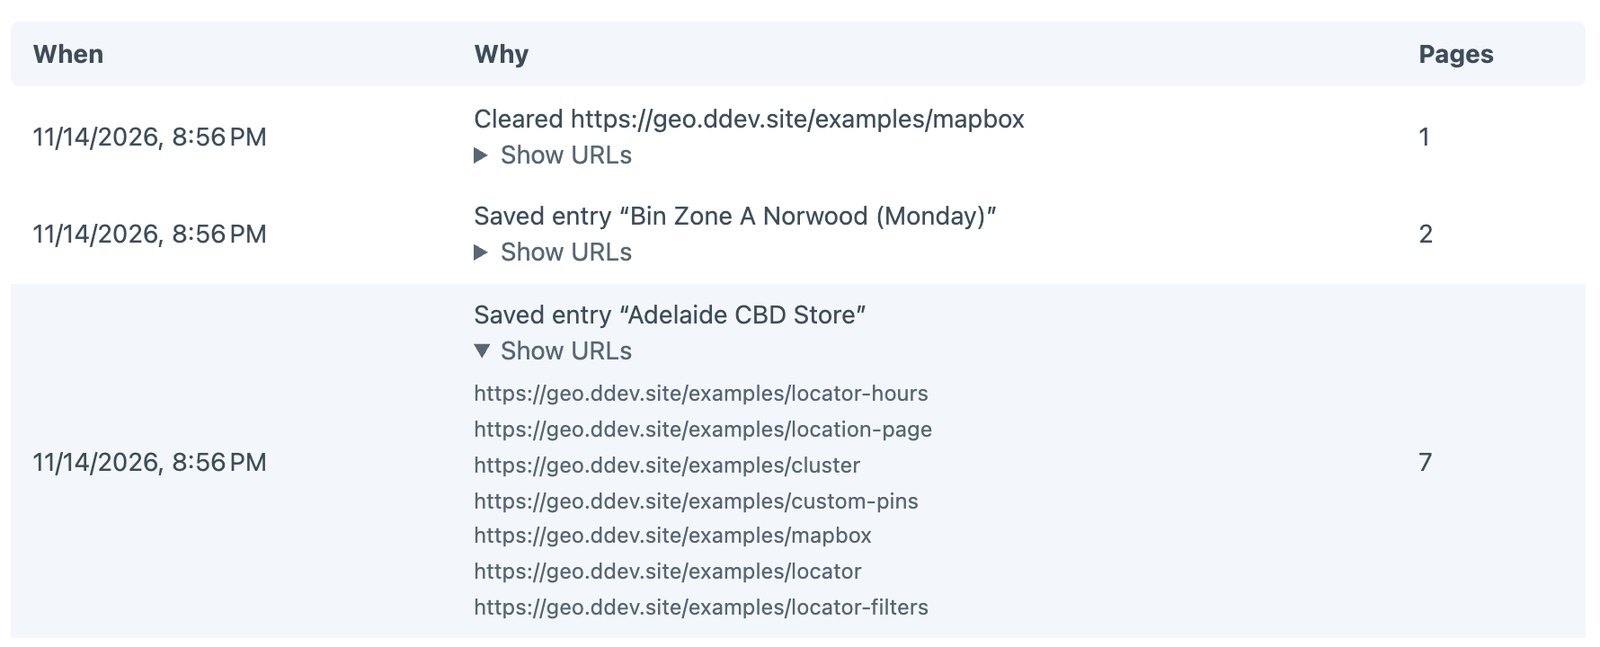
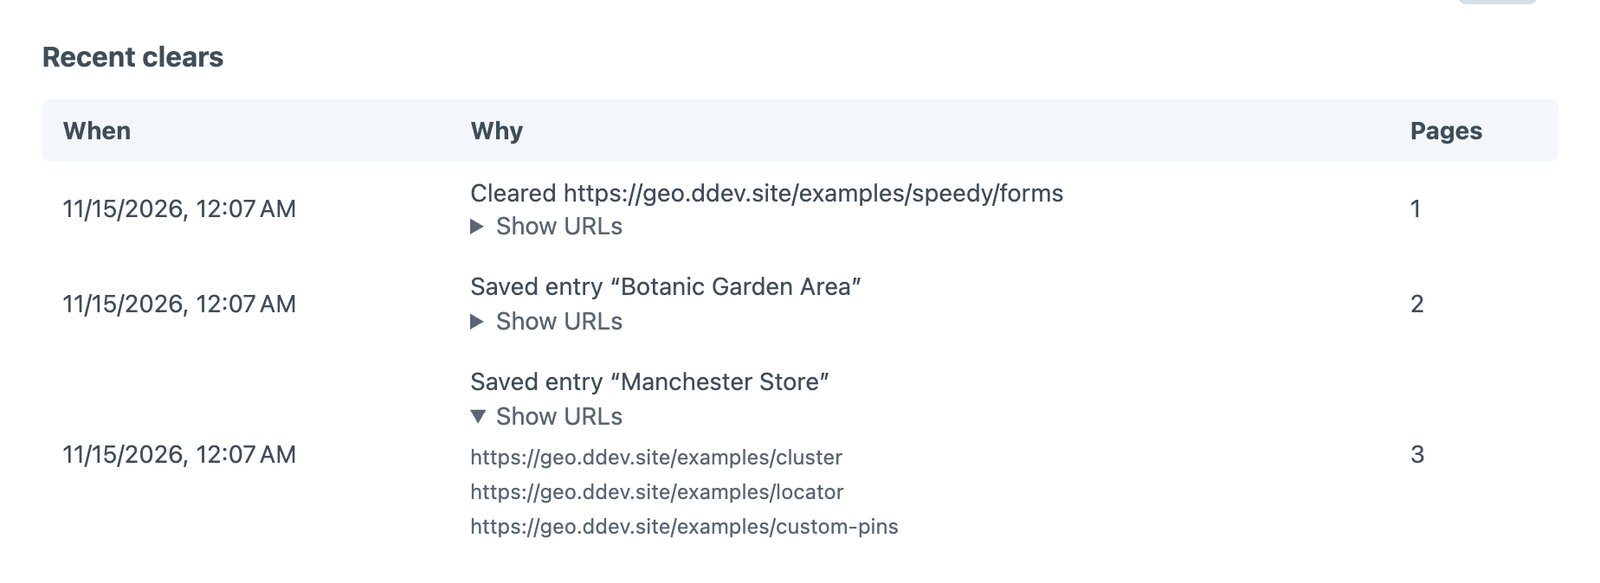
Docs: new screenshots for the utility, settings tabs, entry status, element action and support report

diff --git a/docs/src/guides/utility.md b/docs/src/guides/utility.md
@@ -40,13 +40,19 @@ Every cached page, sorted by URL, with a search box. For each page:
 
 ## On each entry
 
+![The details panel of an entry: Page cache, Cached, 26 seconds ago, shown on 3 cached pages](/images/entry-status.jpg)
+
 The details panel of entries, categories, products and other elements with pages shows a **Page cache** line: whether its page is cached and when, or why it isn’t (caching off, or a **Never cache** pattern), and how many cached pages show it.
 
 ## Clear from an element index
 
+![The actions menu of the entries index, with Clear cached pages](/images/element-action.jpg)
+
 Select entries, categories or Commerce products, and choose **Clear cached pages** from the actions menu. It clears every cached page that shows them. It needs the **Utilities → Speedy Cache** permission.
 
 ## Support report
+
+![The support report: versions, caching settings, CDN, checks, recent clears and plugins](/images/report.jpg)
 
 **Copy support report** copies a plain-text summary to paste into a support email: versions, settings, CDN status, checks, recent clears and installed plugins. Keys and tokens only appear as “set”.
 

diff --git a/docs/src/guides/other-cdns.md b/docs/src/guides/other-cdns.md
@@ -2,6 +2,8 @@
 
 Besides [Cloudflare](/guides/cloudflare) and [CloudFront](/guides/cloudfront), Speedy clears Fastly, Bunny and Varnish. Add their details in **Settings → Plugins → Speedy Cache → CDN**, ideally as environment variables. Once they’re set, cached pages are sent with `Cache-Control: public, s-maxage=…`, so the CDN keeps them, and Speedy clears changed pages from it. **Test** buttons appear on the utility page.
 
+![The CDN tab: a card each for Cloudflare, CloudFront, Fastly, Bunny and Varnish](/images/settings-cdn.jpg)
+
 ## Fastly
 
 1. In Fastly, create an API token with **purge_select** and **purge_all** scope for your service.

diff --git a/docs/src/getting-started/configuration.md b/docs/src/getting-started/configuration.md
@@ -8,6 +8,8 @@ The settings page (**Settings → Plugins → Speedy Cache**) has three tabs:
 
 ![Speedy Cache settings, General tab: a status strip, Cache pages, Never cache, When content changes and After clearing everything](/images/settings.jpg)
 
+![The Advanced tab: cache storage, the API key and the options set in config/speedy.php](/images/settings-advanced.jpg)
+
 Everything else goes in `config/speedy.php`. Settings in the file override the settings page, which then shows the field as locked with a note saying so.
 
 ```php
